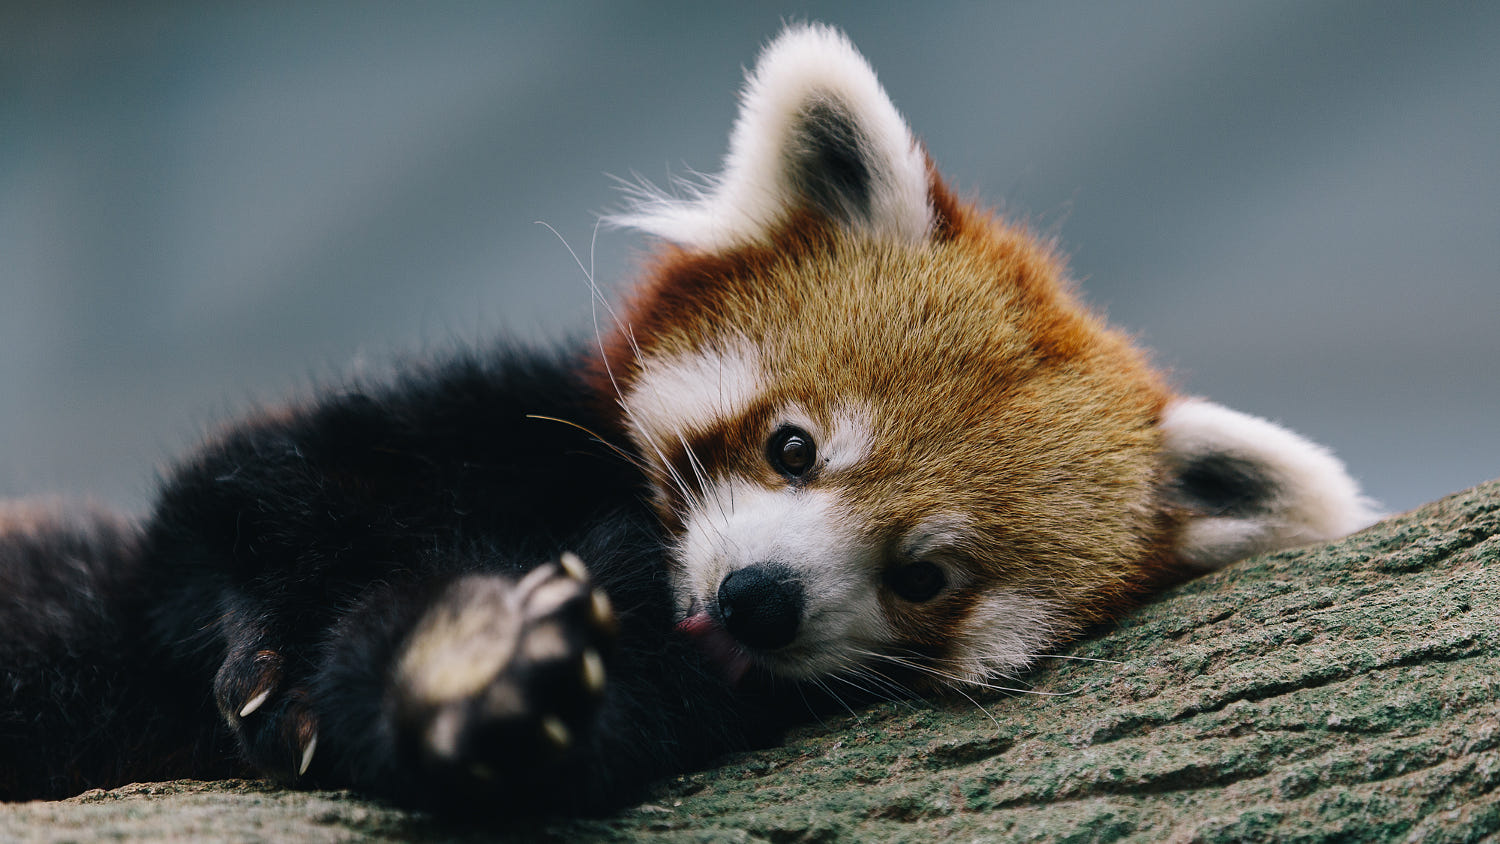
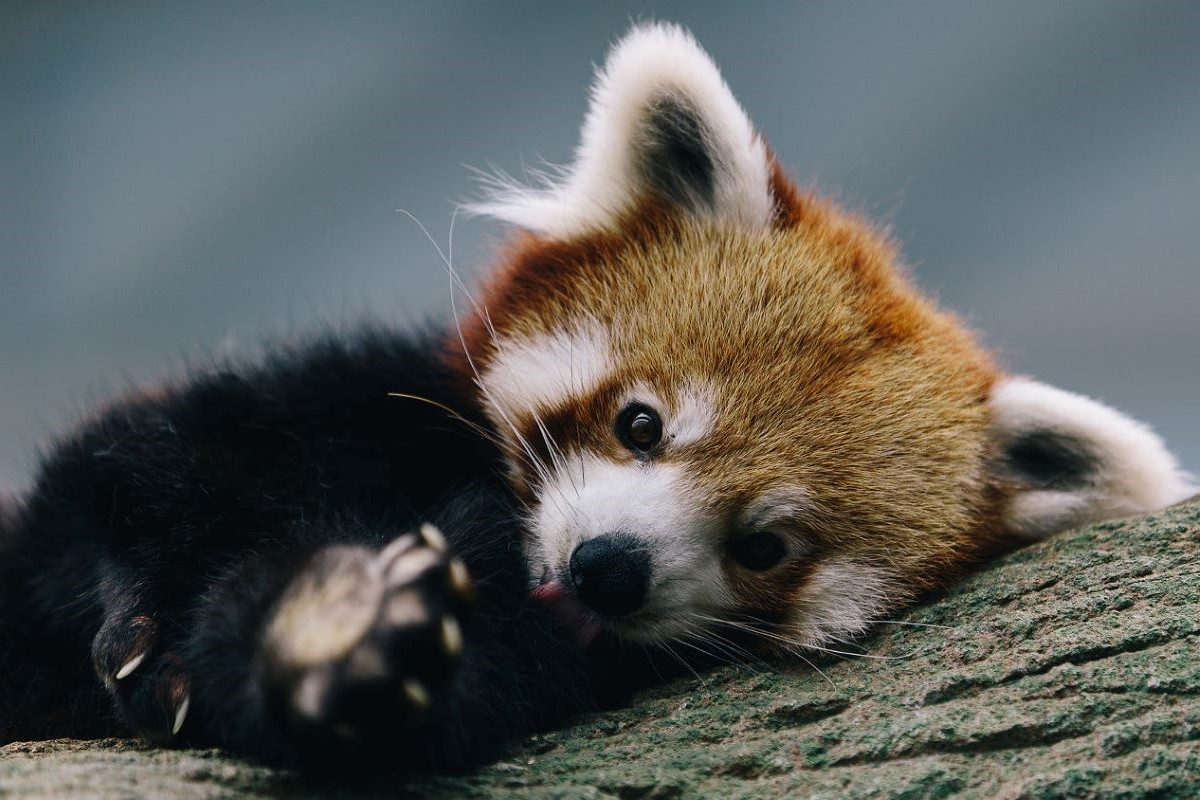
photo wip

diff --git a/photos.html b/photos.html
@@ -77,15 +77,16 @@
 				<!-- CONTENT STARTS HERE -->
                 <h1 class="text-align" style="margin-top: .5rem;"> </h1>
 
-<!--carousel start-->
-<div id="carouselExampleIndicators" class="carousel slide">
+<!--pc.carousel start-->
+<div class="container bg-dark d-none d-sm-none d-md-block" style="margin-top: 1rem; padding: 1rem; height: 495px;">
+<div id="carouselExampleIndicators" class="carousel slide" >
     <div class="carousel-indicators">
-      <button type="button" data-bs-target="#carouselExampleIndicators" data-bs-slide-to="0" class="active" aria-current="true" aria-label="Slide 1"></button>
+      <button type="button" data-bs-target="#carouselExampleIndicators" data-bs-slide-to="0" class="active" aria-current="true" aria-label="Slide 1" ></button>
       <button type="button" data-bs-target="#carouselExampleIndicators" data-bs-slide-to="1" aria-label="Slide 2"></button>
       <button type="button" data-bs-target="#carouselExampleIndicators" data-bs-slide-to="2" aria-label="Slide 3"></button>
     </div>
     <div class="carousel-inner">
-      <div class="carousel-item active">
+    <div class="carousel-item active" >
         <img src="images/photospanda1.jpg" class="d-block">
       </div>
       <div class="carousel-item">
@@ -104,7 +105,33 @@
       <span class="visually-hidden">Next</span>
     </button>
   </div>
-<!--carousel end-->
+</div>
+<!--pc.carousel end-->
+<!--mob.carousel start-->
+<div class="container bg-dark d-block d-sm-block d-md-none" style="margin-top: 1rem; padding: 1rem; height: 75vh;">
+<div id="carouselExample" class="carousel slide">
+	<div class="carousel-inner">
+	  <div class="carousel-item active">
+		<img src="images/photospandamob1.jpg" class="d-block w-100" alt="...">
+	  </div>
+	  <div class="carousel-item">
+		<img src="..." class="d-block w-100" alt="...">
+	  </div>
+	  <div class="carousel-item">
+		<img src="..." class="d-block w-100" alt="...">
+	  </div>
+	</div>
+	<button class="carousel-control-prev" type="button" data-bs-target="#carouselExample" data-bs-slide="prev">
+	  <span class="carousel-control-prev-icon" aria-hidden="true"></span>
+	  <span class="visually-hidden">Previous</span>
+	</button>
+	<button class="carousel-control-next" type="button" data-bs-target="#carouselExample" data-bs-slide="next">
+	  <span class="carousel-control-next-icon" aria-hidden="true"></span>
+	  <span class="visually-hidden">Next</span>
+	</button>
+  </div>
+</div>
+	<!--mob.carousel end-->
 
             <!-CONTENT ENDS HERE-->    
                   <!-- mob.SHARE CARD STARTS HERE -->

diff --git a/donatepage.html b/donatepage.html
@@ -82,7 +82,7 @@
 						<form>
 							<div class="mb-3 bg-dark object-fit" style="margin-top: 1rem;margin-left: 8rem;margin-right: 8rem; padding-bottom: 2rem; padding-top: 1rem;border: 5px solid white;">
 							  <p for="exampleInputEmail1" class="form-label text-white" style="text-align: center;">Amount</p>
-							  <input type="email" class="form-control" id="exampleInputEmail1" aria-describedby="emailHelp" style="margin-bottom: 2rem; max-width: 6vw; margin-left: auto;margin-right: auto;">
+							  <input type="number" class="form-control" id="exampleInputEmail1" aria-describedby="emailHelp" style="margin-bottom: 2rem; max-width: 6vw; margin-left: auto;margin-right: auto;">
 							  <p for="exampleInputPassword1" class="form-label text-white" style="text-align: center;">Account number</p>
 							  <input type="password" class="form-control" id="exampleInputPassword1" style="max-width: 12vw; margin-left: auto;margin-right: auto; margin-bottom: 1rem;">
 							  <p for="exampleInputPassword1" class="form-label text-white" style="text-align: center;">BSB</p>
